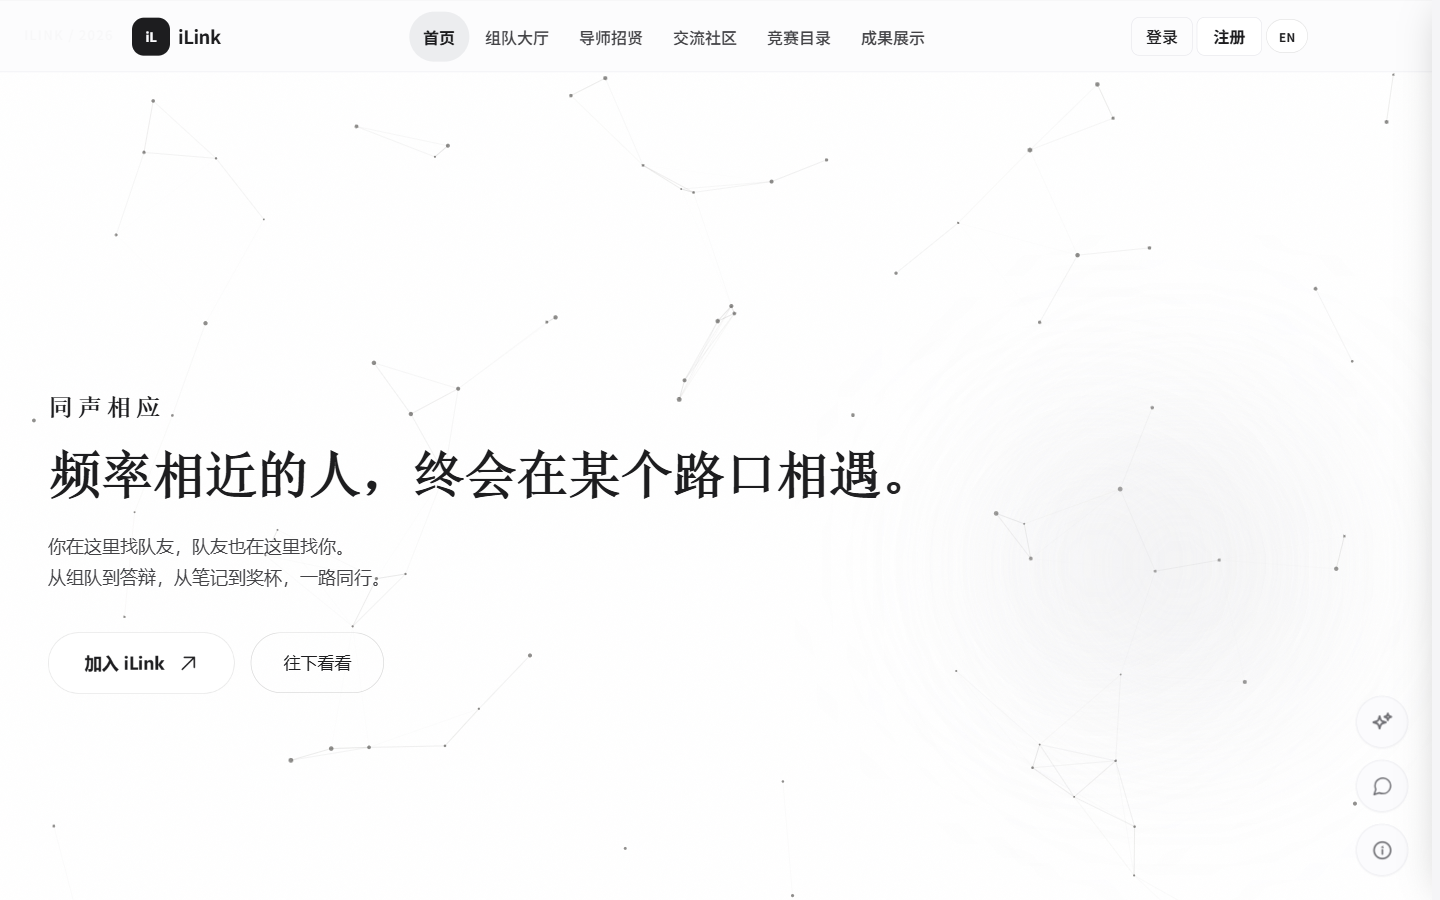
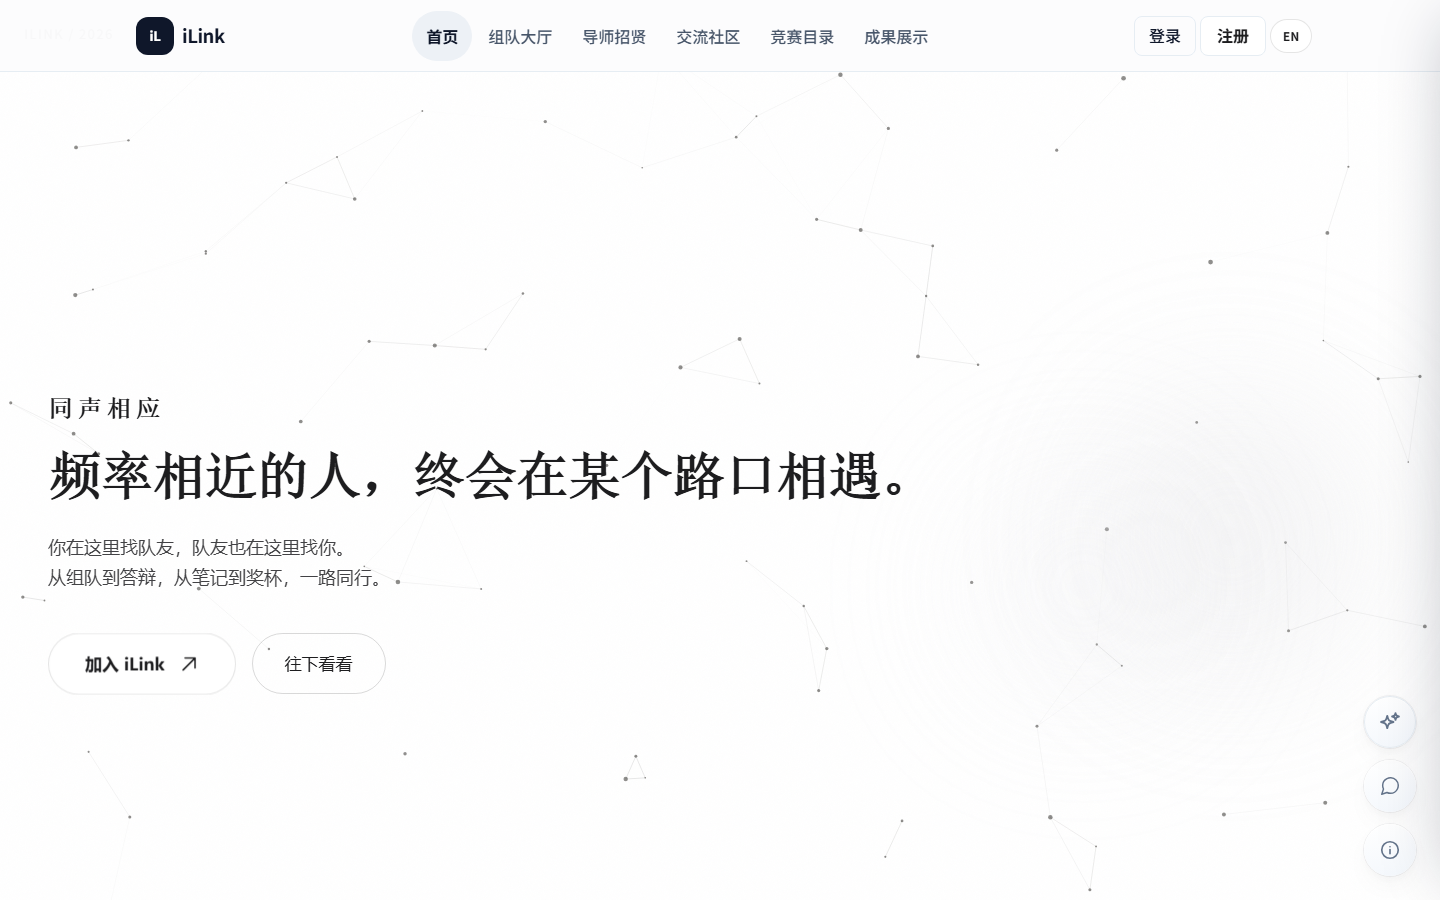
docs: 新增 PRODUCT.md 产品说明并刷新 README 截图
- 产品功能说明（已脱敏）
- 10 张产品截图更新为最新界面
- .gitignore 补充 __tmp_tools/、*.hprof，明确文档与脚本的脱敏要求

diff --git a/PRODUCT.md b/PRODUCT.md
@@ -1,0 +1,42 @@
+# iLink · 产品事实
+
+> 本文件记录不会随视觉改版变化的产品事实。设计与实现冲突时，以这里为准。
+
+## 是什么
+
+面向高校学生的组队与协作平台。一个学生在这里发组队需求、找队友、找导师、看竞赛、交成果、在社区交流；组队成功之后在团队空间里做任务、聊天、共享资料。
+
+## 谁在用
+
+| 角色 | 身份 | 主要动作 |
+| --- | --- | --- |
+| 学生 | 绝大多数 | 发组队、申请入队、交成果、发帖、参加任务 |
+| 教师 | 少数（需审核） | 发布招贤、指导学生、审核任务 |
+| 管理员 | 2 人 | 管用户、管组队、审核导师、管竞赛目录、管社区、查审计 |
+
+## 表面与各自的成功标准
+
+| 表面 | 路由 | 用户成功的样子 |
+| --- | --- | --- |
+| 门户首页 | `index.html` | 看懂这是什么、决定注册。**本次改版不动** |
+| 浏览与检索 | `team-market` `teacher-wall` `gallery` `community` `competitions` | 在几十条里快速找到想看的，并点进去 |
+| 详情 | `team-detail` `teacher-detail` `asset-detail` `community-article` `user-profile` | 判断"这个人/这个队靠不靠谱"，然后发出申请或建立联系 |
+| 创作 | `team-publish` `asset-publish` `profile-article-edit` | 把内容写出来并发出去，中途不丢 |
+| 个人中心 | `profile*` 共 9 页 | 管理自己的资料、内容、收藏、密码 |
+| 团队空间 | `team-space` `team-workspace` `team-chat` `team-detail` | 队内协作：任务、聊天、资料、复盘 |
+| 管理后台 | `admin.html` | 发现问题、处理问题、留痕 |
+
+## 硬约束
+
+- **技术栈固定**：Spring Boot 2.7 + Thymeleaf 服务端渲染 + 原生 JS，没有打包器。不能引入 React/Tailwind/构建链。
+- **样式层**：所有 CSS 包在 `@layer legacy` 里，`layers.css` 最先加载。层外样式（Bootstrap）优先于层内。
+- **静态资源按内容指纹**：改完 CSS 不需要版本号，但必须 `mvn resources:resources` 同步到 `target/classes`。
+- **页面白名单**：新页面必须同时登记在 `PageController.ALLOWED_PAGES` 和 `SecurityConfig`。
+- **字体**：Inter + Noto Sans SC，不引入新字体。
+- **首页例外**：`index.html` 与 `home.css` 本次不改。
+
+## 内容事实
+
+- 规模：51 个账号、27 条组队、11 条导师申请、32 份成果、13 篇帖子、125 条审计。其中 44 个账号是种子/测试数据。
+- 状态枚举：用户 `ACTIVE/DISABLED`；组队 `OPEN/TEAMING/CLOSED/DISSOLVED`；导师申请 `PENDING/APPROVED/REJECTED`。
+- 数据可信度：当前大部分是联调数据，任何"率"都只能当结构参考，不能当结论。
